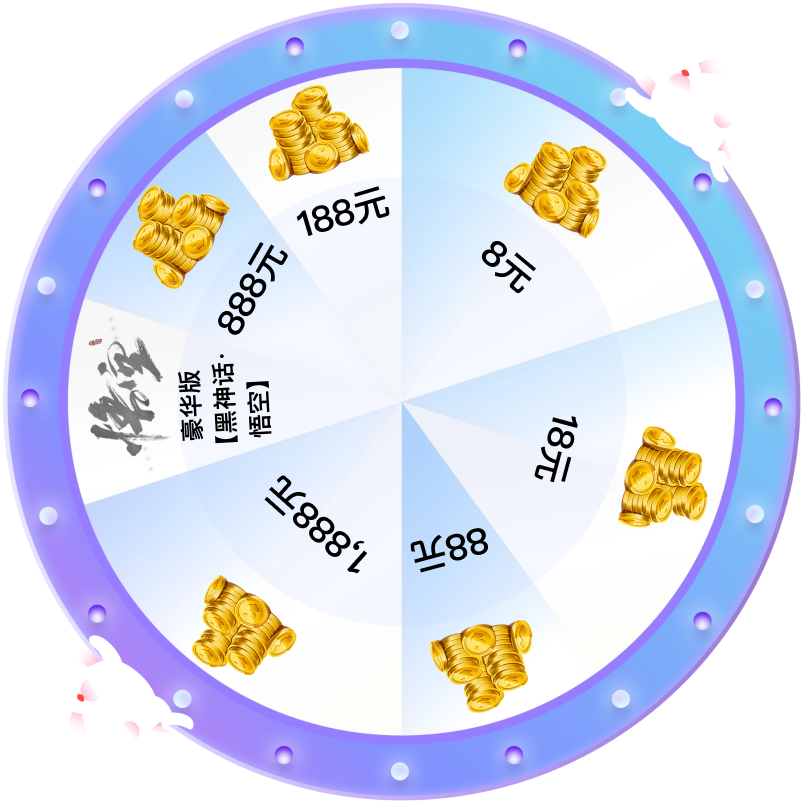
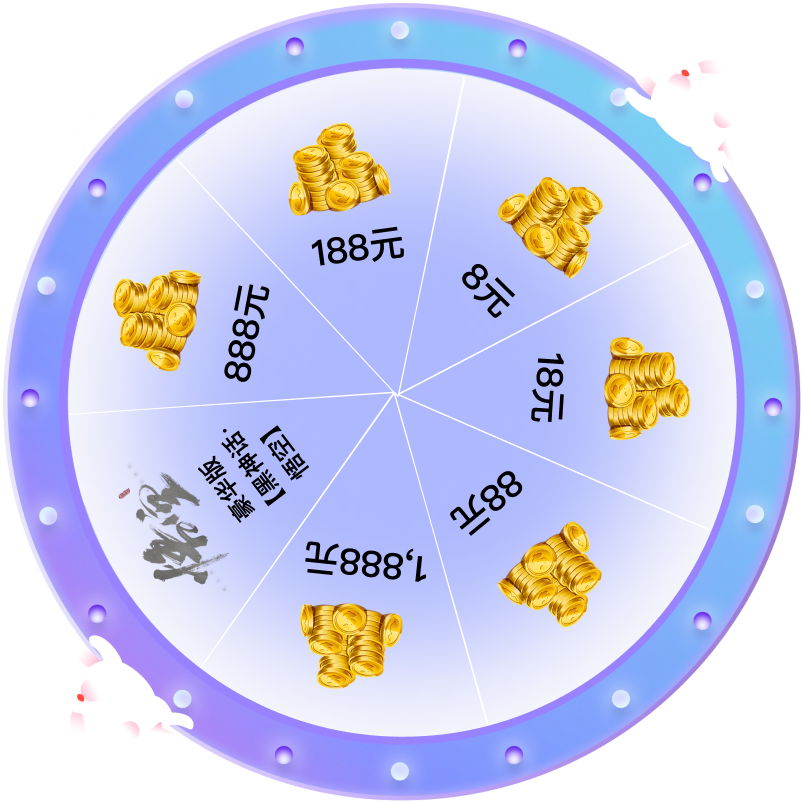
fix: [dy web, dy h5] Update promo img

diff --git a/dy-static-h5/src/components/hotpromo/midautumSpinWheel/MidautumSpinWheel.vue b/dy-static-h5/src/components/hotpromo/midautumSpinWheel/MidautumSpinWheel.vue
@@ -278,23 +278,23 @@ onMounted(() => {
       prize: 188
     },
     {
-      degree: 54,
+      degree: 64,
       prize: 888
     },
     {
-      degree: 90,
+      degree: 110,
       prize: "黑神话 - 悟空"
     },
     {
-      degree: 144,
+      degree: 164,
       prize: 1888
     },
     {
-      degree: 198,
+      degree: 218,
       prize: 88
     },
     {
-      degree: 252,
+      degree: 272,
       prize: 18
     },
     {
@@ -393,8 +393,8 @@ onMounted(() => {
   aspect-ratio: 206/220;
   z-index: 25;
   position: absolute;
-  top: calc(50%);
-  left: 50%;
+  top: 51%;
+  left: 50.5%;
   transform: translate(-50%, -50%);
 
   &.disabled {

diff --git a/dy-static-web/src/components/hotpromo/midautumSpinWheel/MidautumSpinWheel.vue b/dy-static-web/src/components/hotpromo/midautumSpinWheel/MidautumSpinWheel.vue
@@ -248,23 +248,23 @@ onMounted(() => {
       prize: 188
     },
     {
-      degree: 54,
+      degree: 64,
       prize: 888
     },
     {
-      degree: 90,
+      degree: 110,
       prize: "黑神话 - 悟空"
     },
     {
-      degree: 144,
+      degree: 164,
       prize: 1888
     },
     {
-      degree: 198,
+      degree: 218,
       prize: 88
     },
     {
-      degree: 252,
+      degree: 272,
       prize: 18
     },
     {
@@ -371,8 +371,8 @@ onMounted(() => {
   aspect-ratio: 206/220;
   z-index: 25;
   position: absolute;
-  top: calc(50%);
-  left: 50%;
+  top: 51%;
+  left: 50.5%;
   transform: translate(-50%, -50%);
 
   &.disabled {

diff --git a/dy-static-web/src/views/PromotionView.vue b/dy-static-web/src/views/PromotionView.vue
@@ -754,7 +754,7 @@ export default defineComponent({
 
         &.isMidAutumnWukong {
           .promo-bg {
-            height: 550px !important;
+            height: 585px !important;
           }
         }
 
